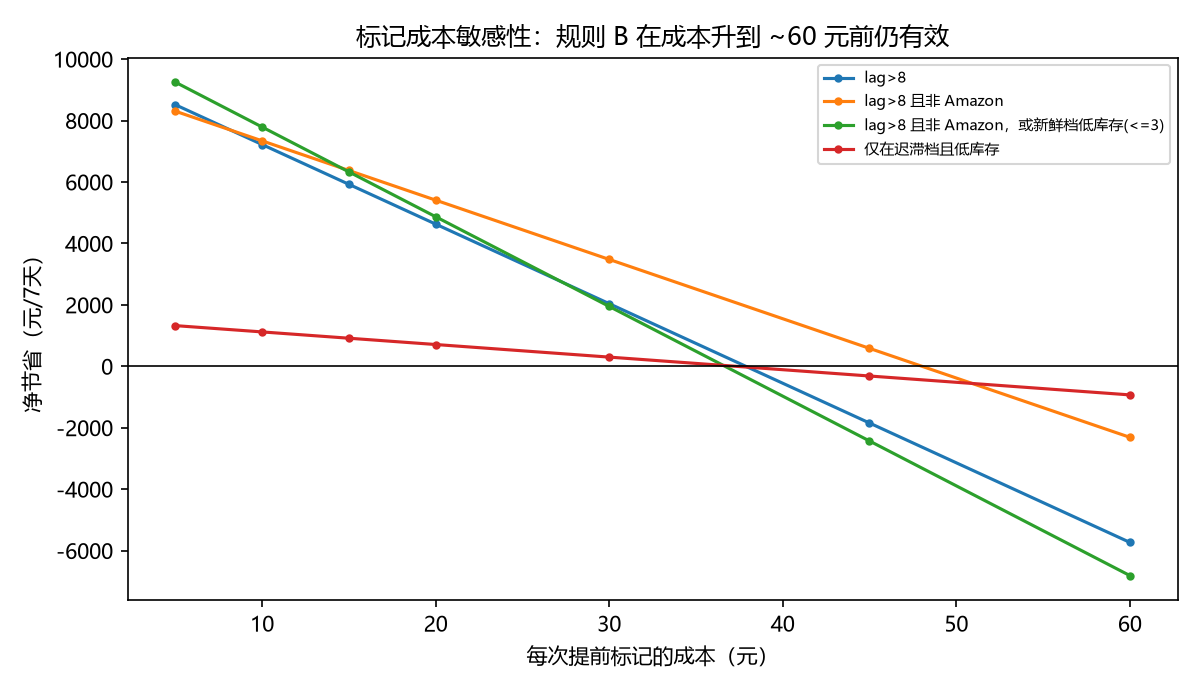
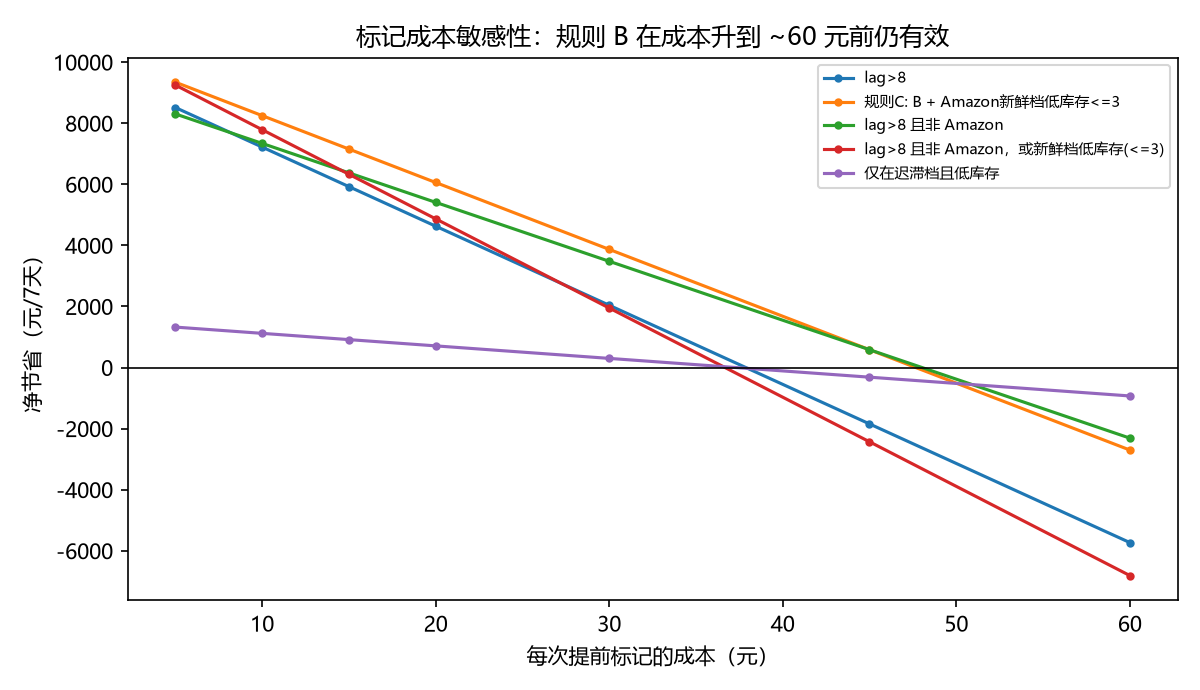
feat: rule C (Amazon fresh low-stock), duplicate-row sensitivity, correct channel-specific finding

diff --git a/src/analyze.py b/src/analyze.py
@@ -63,6 +63,8 @@ def main() -> None:
     m["rows_total"] = len(df)
     m["rows_labeled"] = int(df["order_status"].notna().sum())
     m["rows_missing_status"] = int(df["order_status"].isna().sum())
+    m["duplicate_rows"] = int(df.duplicated().sum())
+    m["unique_order_ids"] = int(df["order_id"].nunique())
     m["stockouts"] = int((df["order_status"] == 0).sum())
     m["fulfilled"] = int((df["order_status"] == 1).sum())
     m["order_period"] = [str(df["order_date"].min()), str(df["order_date"].max())]
@@ -136,6 +138,9 @@ def main() -> None:
         "no_action": pd.Series(False, index=d.index),
         "rule_lag>8": d["lag_min"] > stale_thr,
         "rule_lag>8_and_channel!=amazon": (d["lag_min"] > stale_thr) & (d["platform_channel"] != "amazon_us"),
+        "rule_C_plus_amazon_lowstock": (((d["lag_min"] > stale_thr) & (d["platform_channel"] != "amazon_us"))
+                                        | ((d["platform_channel"] == "amazon_us") & (d["lag_min"] <= stale_thr)
+                                           & (d["stock_display"] <= 3))),
     }
     # 逐阈值扫描（单变量 lag 规则）
     scan = []
@@ -157,6 +162,35 @@ def main() -> None:
     rules_df = pd.DataFrame(res)
     rules_df.to_csv(OUT / "rule_costs.csv", index=False, encoding="utf-8-sig")
     m["rules"] = res
+
+    # Amazon 新鲜档低库存：渠道专属的第二信号
+    amz_low = d[(d.platform_channel == "amazon_us") & (d.lag_min <= stale_thr) & (d.stock_display <= 3)]
+    amz_low_hi = d[(d.platform_channel == "amazon_us") & (d.lag_min <= stale_thr) & (d.stock_display > 3)]
+    m["amazon_fresh_lowstock"] = dict(n=len(amz_low), stockouts=int((amz_low.order_status == 0).sum()),
+                                      rate=round(1 - amz_low.order_status.mean(), 4),
+                                      ci_low=round(wilson_ci(int((amz_low.order_status == 0).sum()), len(amz_low))[0], 4),
+                                      ci_high=round(wilson_ci(int((amz_low.order_status == 0).sum()), len(amz_low))[1], 4))
+    m["amazon_fresh_highstock"] = dict(n=len(amz_low_hi), stockouts=int((amz_low_hi.order_status == 0).sum()),
+                                       rate=round(1 - amz_low_hi.order_status.mean(), 4))
+    m["amazon_lowstock_by_day"] = (amz_low.assign(day=pd.to_datetime(amz_low.order_time, utc=True)
+                                                   .dt.tz_convert("Asia/Shanghai").dt.date)
+                                   .groupby("day").agg(n=("order_status", "size"),
+                                                       stockouts=("order_status", lambda x: int((x == 0).sum())))
+                                   .reset_index().astype(str).to_dict("records"))
+
+    # 重复行敏感性：去重后重算核心指标
+    nd = df.drop_duplicates().dropna(subset=["order_status"])
+    st_nd = nd.lag_min > stale_thr
+    flags_nd = ((st_nd & (nd.platform_channel != "amazon_us"))
+                | ((nd.platform_channel == "amazon_us") & (~st_nd) & (nd.stock_display <= 3)))
+    base_nd = int((nd.order_status == 0).sum()) * COST_STOCKOUT
+    cost_nd = rule_cost(nd["order_status"], flags_nd)
+    m["dedupe_sensitivity"] = dict(
+        rows_after_dedupe=len(nd), duplicate_rows=int(df.duplicated().sum()),
+        fresh_rate=round(1 - nd[~st_nd].order_status.mean(), 4),
+        stale_rate=round(1 - nd[st_nd].order_status.mean(), 4),
+        rule_c_cost=cost_nd["cost"], rule_c_saving=int(base_nd - cost_nd["cost"]),
+        rule_c_saving_pct=round(100 * (base_nd - cost_nd["cost"]) / base_nd, 2))
 
     # 若彻底修好同步（反事实：迟滞订单按新鲜档 3.5% 砍单率计）
     fresh_rate = 1 - fresh.order_status.mean()

diff --git a/src/robustness.py b/src/robustness.py
@@ -62,27 +62,29 @@ res["bootstrap"] = {
                           bootstrap_ci(fresh & ~low_stock)],
 }
 
-# 规则 B 节省的 Bootstrap（对订单重抽样）
+# 规则 B / C 节省的 Bootstrap（对订单重抽样）
 base_rule = stale & (d["platform_channel"] != "amazon_us")
+rule_c = base_rule | ((d["platform_channel"] == "amazon_us") & (~stale) & (d["stock_display"] <= 3))
 n = len(d)
-savings = []
 idx_all = rng.integers(0, n, size=(2000, n))
-for row in idx_all:
-    sub = d.iloc[row]
-    base_cost = sub["is_stockout"].sum() * 90
-    cost = 15 * len(sub) * 0 + 15 * base_rule.iloc[row].sum() + 90 * ((~base_rule.iloc[row]) & sub["is_stockout"].astype(bool)).sum()
-    savings.append(base_cost - cost)
-savings = np.array(savings)
-res["rule_b_saving"] = {
-    "point": int((d["is_stockout"].sum() * 90) -
-                 rule_cost(d, base_rule, 15, 90)),
-    "ci95": [int(np.quantile(savings, 0.025)), int(np.quantile(savings, 0.975))],
-    "p_saving_positive": round(float((savings > 0).mean()), 4),
-}
+for label, rule in [("rule_b", base_rule), ("rule_c", rule_c)]:
+    savings = []
+    for row in idx_all:
+        y = d["is_stockout"].to_numpy()[row].astype(bool)
+        f = rule.to_numpy()[row].astype(bool)
+        base_cost = y.sum() * 90
+        savings.append(base_cost - (15 * f.sum() + 90 * ((~f) & y).sum()))
+    savings = np.array(savings)
+    res[f"{label}_saving"] = {
+        "point": int(d["is_stockout"].sum() * 90 - rule_cost(d, rule, 15, 90)),
+        "ci95": [int(np.quantile(savings, 0.025)), int(np.quantile(savings, 0.975))],
+        "p_saving_positive": round(float((savings > 0).mean()), 4),
+    }
 
 # ---------- 2. 成本敏感性：标记成本 c_flag 变化时的最优规则 ----------
 rules = {
     "lag>8": stale,
+    "规则C: B + Amazon新鲜档低库存<=3": rule_c,
     "lag>8 且非 Amazon": base_rule,
     "lag>8 且非 Amazon，或新鲜档低库存(<=3)": base_rule | (fresh & low_stock),
     "仅在迟滞档且低库存": stale & low_stock,
